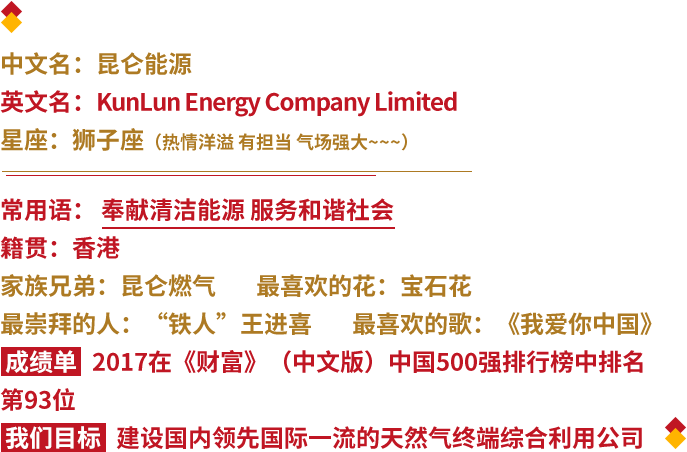
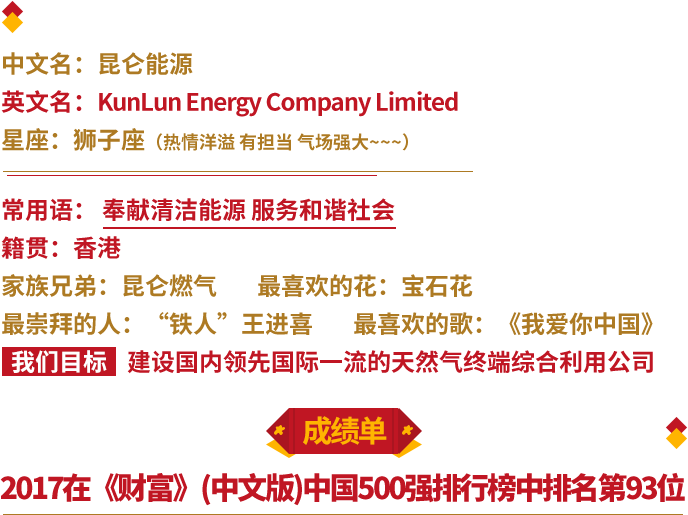
htmls

Changed region(s): [[0.0, 0.3717, 1.0, 1.0], [0.0, 0.0, 0.6725, 0.3407], [0.7336, 0.5885, 0.9476, 0.6504]]

diff --git a/src/main/resources/static/css/5-place.css b/src/main/resources/static/css/5-place.css
@@ -15,14 +15,33 @@
      width: 21rem;
      position: absolute;
      left: 2.6rem;
-     top: 6.4rem;
+     top: 3.4rem;
  }
 
  .img-map-5{
    width: 24rem;
    position: absolute;
    left: 1.0rem;
-   top: 14.4rem;
+   top: 11.4rem;
+ }
+
+ .praise-5{
+     width: 4.2rem;
+     position: absolute;
+     left: 10.5rem;
+     top: 36.4rem;
+ }
+
+ .praise-text-5{
+     color: white;
+     height: 0.5rem;
+     font-size: 1.13rem;
+     position: absolute;
+     left: 0rem;
+     top: 41.7rem;
+     width: 100%;
+     text-align: center;
+     font-weight: bold;
  }
 
 
@@ -35,7 +54,7 @@ a,img{border:0;text-decoration:none;}
 
 .map-service-right{
     margin-left: 1.2rem;
-    margin-top: 14.78rem;
+    margin-top: 11.78rem;
     position: relative;
 }
 

diff --git a/src/main/resources/static/css/7-page.css b/src/main/resources/static/css/7-page.css
@@ -1,0 +1,51 @@
+.page-bg-7{
+    height: 100%;
+    width: 100%;
+    position: relative;
+}
+
+.img-bg-7{
+    height: 100%;
+    width: 100%;
+    position: absolute;
+    left: 0px;
+}
+
+.img-bg-7-border{
+    width: 24rem;
+     position: absolute;
+     left: 1.0rem;
+     top: 1.4rem;
+ }
+
+ .img-invite-7{
+    width: 12rem;
+    position: absolute;
+    left: 7.0rem;
+    top: 4.4rem;
+ }
+
+.img-line-7-1{
+    width: 14rem;
+    position: absolute;
+    left: 6.0rem;
+    top: 13.4rem;
+}
+
+
+
+
+
+.img-submit-7{
+    width: 9.8rem;
+    position: absolute;
+    left: 8.0rem;
+    top: 30.4rem;
+}
+
+.img-line-7-2{
+    width: 14rem;
+    position: absolute;
+    left: 6.0rem;
+    top: 36.4rem;
+}

diff --git a/src/main/resources/static/css/6-page.css b/src/main/resources/static/css/6-page.css
@@ -1,0 +1,47 @@
+.page-bg-6{
+    height: 100%;
+    width: 100%;
+    position: relative;
+}
+
+.img-bg-6{
+    height: 100%;
+    width: 100%;
+    position: absolute;
+    left: 0px;
+}
+
+.title-6{
+   width: 18rem;
+   position: absolute;
+   left: 4.3rem;
+    top: 5.4rem;
+ }
+
+.font-6{
+    width: 23rem;
+    position: absolute;
+    left: 1.5rem;
+    top: 11.4rem;
+}
+.praise-6{
+    width: 4.2rem;
+    position: absolute;
+    left: 10.5rem;
+    top: 36.4rem;
+}
+
+.praise-text-6{
+    color: white;
+    height: 0.5rem;
+    font-size: 1.13rem;
+    position: absolute;
+    left: 0rem;
+    top: 41.7rem;
+    width: 100%;
+    text-align: center;
+    font-weight: bold;
+}
+
+
+

diff --git a/src/main/resources/static/css/4-page.css b/src/main/resources/static/css/4-page.css
@@ -15,20 +15,20 @@
     width: 21rem;
     position: absolute;
     left: 2.6rem;
-    top: 3.4rem;
+    top: 1.4rem;
 }
 
 .title-4-2{
-    width: 20rem;
+    width: 23rem;
     position: absolute;
-    left: 3.3rem;
-    bottom: 15.4rem;
+    left: 1.5rem;
+    bottom: 17.4rem;
 }
 
 .wh-4{
     width: 23rem;
     position: absolute;
     left: 1.5rem;
-    bottom: 2.4rem;
+    bottom: 1.4rem;
 }
 

diff --git a/src/main/resources/static/css/3-page.css b/src/main/resources/static/css/3-page.css
@@ -10,10 +10,16 @@
     position: absolute;
     left: 0px;
 }
+.title-3{
+      width: 15rem;
+      position: absolute;
+      left: 6.0rem;
+      top: 2.1rem;
+}
 
 .font-3{
     width: 22rem;
     position: absolute;
     left: 2.3rem;
-    top: 7.4rem;
+    bottom: 3.4rem;
 }
